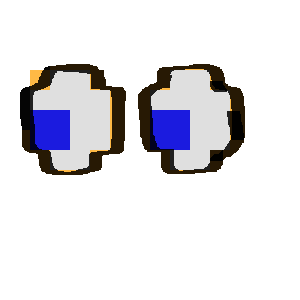
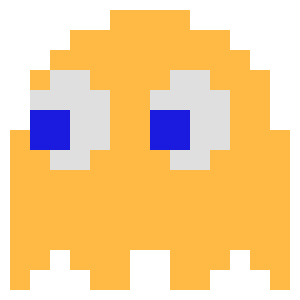
Füves szellem

diff --git a/core/src/hu/csanysoft/invaders/Actors/Ghost.java b/core/src/hu/csanysoft/invaders/Actors/Ghost.java
@@ -6,17 +6,22 @@ import java.util.Random;
 
 import hu.csanysoft.invaders.Game.GameStage;
 import hu.csanysoft.invaders.Global.Assets;
+import hu.csanysoft.invaders.MyBaseClasses.Scene2D.MultiSpriteActor;
+import hu.csanysoft.invaders.MyBaseClasses.Scene2D.OffsetSprite;
 import hu.csanysoft.invaders.MyBaseClasses.Scene2D.OneSpriteStaticActor;
 
-public class Ghost extends OneSpriteStaticActor {
+public class Ghost extends MultiSpriteActor {
 
     float x, y;
-    boolean balra;
+    boolean balra, szemBalra;
     Random rand;
     float speed;
+    float timer = 2;
 
     public Ghost(float x, float y) {
-        super(Assets.manager.get(Assets.GHOST_TEXTURE));
+        super(300,300);
+        addSprite(new OffsetSprite(Assets.manager.get(Assets.GHOST_ALAP_TEXTURE), 0, 0),"alap");
+        addSprite(new OffsetSprite(Assets.manager.get(Assets.GHOST_SZEM_TEXTURE), 30, 130), "szem");
         setSize(128,128);
         addBaseCollisionRectangleShape();
         setPosition(x,y);
@@ -29,7 +34,7 @@ public class Ghost extends OneSpriteStaticActor {
     @Override
     public void act(float delta) {
         super.act(delta);
-        elapsedTime+=delta;
+        timer-=delta;
         if(isVisible() && elapsedTime > Math.random()*(5-3+1)+3) {
             Laser laser = new Laser(getX()+getWidth()/2, getY()-getHeight(), false);
             getStage().addActor(laser);
@@ -38,12 +43,27 @@ public class Ghost extends OneSpriteStaticActor {
             elapsedTime=0;
         }
 
+
         if(balra) {
-            moveBy(0-speed, 0);
-            if(x-getX() > 30) balra = false;
+            getSprite("alap").setX(getSprite("alap").getX()-speed);
+            //moveBy(0-speed, 0);
+            if(x-getSprite("alap").getX() > 30) {
+                balra = false;
+                timer = 0;
+            }
         } else {
-            moveBy(speed, 0);
-            if(getX() - x > 30) balra = true;
+            getSprite("alap").setX(getSprite("alap").getX()+speed);
+            //moveBy(speed, 0);
+            if(getSprite("alap").getX() - x > 30) {
+                balra = true;
+                timer = 0;
+            }
+        }
+
+        if(szemBalra) {
+            getSprite("szem").setX(getSprite("szem").getX()-speed);
+        } else {
+            getSprite("szem").setX(getSprite("szem").getX()+speed);
         }
     }
 }

diff --git a/core/src/hu/csanysoft/invaders/Global/Assets.java b/core/src/hu/csanysoft/invaders/Global/Assets.java
@@ -37,8 +37,11 @@ public class Assets {
     public static final AssetDescriptor<Texture> SPACE_TEXTURE
             = new AssetDescriptor<Texture>("space.jpg", Texture.class);
 
-    public static final AssetDescriptor<Texture> GHOST_TEXTURE
-            = new AssetDescriptor<Texture>("ghost.png", Texture.class);
+    public static final AssetDescriptor<Texture> GHOST_ALAP_TEXTURE
+            = new AssetDescriptor<Texture>("ghost_alap.png", Texture.class);
+
+    public static final AssetDescriptor<Texture> GHOST_SZEM_TEXTURE
+            = new AssetDescriptor<Texture>("ghost_szem.png", Texture.class);
 
     public static final AssetDescriptor<Texture> LASER_TEXTURE
             = new AssetDescriptor<Texture>("laser.png", Texture.class);
@@ -63,7 +66,8 @@ public class Assets {
 
         manager.load(ARIAL_30_FONT);
         manager.load(SPACE_TEXTURE);
-        manager.load(GHOST_TEXTURE);
+        manager.load(GHOST_ALAP_TEXTURE);
+        manager.load(GHOST_SZEM_TEXTURE);
         manager.load(LASER_TEXTURE);
         manager.load(EMPTY_TEXTURE);
         manager.load(SHIP_TEXTURE);

diff --git a/core/src/hu/csanysoft/invaders/Game/GameStage.java b/core/src/hu/csanysoft/invaders/Game/GameStage.java
@@ -67,7 +67,8 @@ public class GameStage extends MyStage {
         if(timer > 5 - szamolo) {
             timer = 0;
             Ghost ghost = new Ghost(new Random().nextInt(Globals.WORLD_WIDTH - 129) + new Random().nextFloat(),getCameraMoveToY() + Globals.WORLD_HEIGHT);
-            ghost.getSprite().setColor(rand.nextFloat(), rand.nextFloat(), rand.nextFloat(), 1);
+            ghost.getSprite("alap").setColor(rand.nextFloat(), rand.nextFloat(), rand.nextFloat(), 1);
+            ghost.getSprite("szem").setColor(1, 1 - szamolo/4, 1 - szamolo/4, 1);
             ghosts.add(ghost);
             addActor(ghost);
         }
